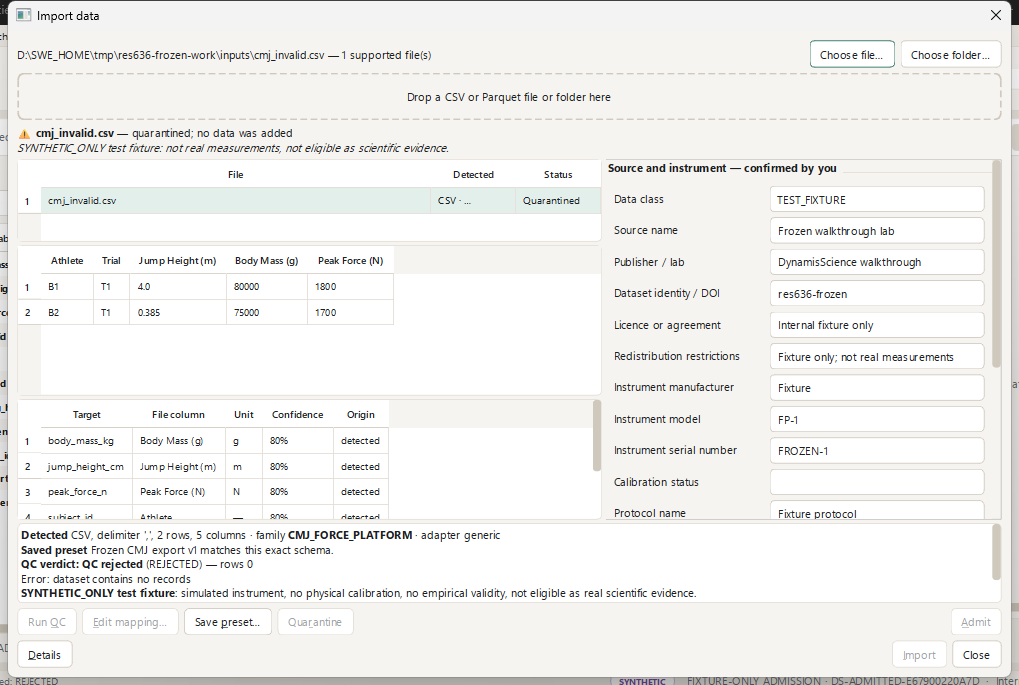
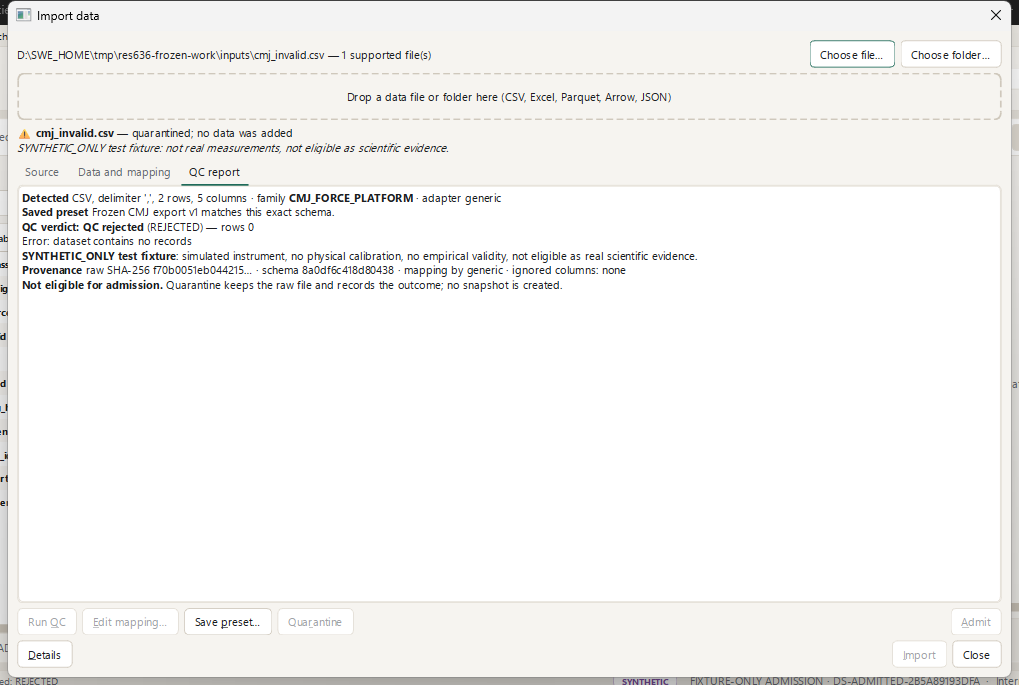
RES-636: qualification record for formats, saved queries, Compare, cleaned screens; frozen evidence

diff --git a/services/science/scripts/res636_frozen_prep.py b/services/science/scripts/res636_frozen_prep.py
@@ -19,7 +19,7 @@ from dynamis_science import importer  # noqa: E402
 
 (work / "inputs").mkdir(parents=True, exist_ok=True)
 HEADER = "Athlete,Trial,Jump Height (m),Body Mass (g),Peak Force (N)\n"
-(work / "inputs" / "cmj_valid.csv").write_text(HEADER + "A1,T1,0.401,80000,1800\nA2,T2,0.385,75000,1700\nA3,T3,0.372,82000,1900\n", encoding="utf-8")
+(work / "inputs" / "cmj_valid.csv").write_text(HEADER + "A1,TR-1,0.401,80000,1189\nA2,T2,0.385,75000,1700\nA3,T3,0.372,82000,1900\n", encoding="utf-8")
 (work / "inputs" / "cmj_invalid.csv").write_text(HEADER + "B1,T1,4.0,80000,1800\nB2,T1,0.385,75000,1700\n", encoding="utf-8")
 rows = "\n".join(f"{s},{t},{i / 1000:.3f},{700 + (i * 7) % 90 + (400 if 300 < i < 500 else 0)}"
                 for s, t in (("A1", "TR-1"), ("A2", "TR-2")) for i in range(1000))

diff --git a/docs/desktop/res636-qualification.md b/docs/desktop/res636-qualification.md
@@ -1,6 +1,6 @@
 # RES-636 qualification — vendor-neutral scientific data workspace and one-click import
 
-Engineering record, not product acceptance (RES-613 remains the owner gate). Scope is vendor-agnostic: no vendor-specific adapters. Source commit of the packaged application: `9d0f1a2899eba28ad80e8ad1701419a19dd7c0b0` (branch `codex/res-621-research-workflow`, local, unpushed).
+Engineering record, not product acceptance (RES-613 remains the owner gate). Scope is vendor-agnostic: no vendor-specific adapters. Source commit of the packaged application: `8d7f2589596b8c05b88e88178af881337c054e5e` (branch `codex/res-621-research-workflow`, local, unpushed).
 
 ## What exists (VERIFIED unless marked)
 
@@ -9,7 +9,7 @@ Engineering record, not product acceptance (RES-613 remains the owner gate). Sco
 - Sample-level (`RAW_FORCE_TIME`, `dynamis_science/traces.py`): Subject → Session → Trial → Trace → sample (`time_s`, optional `sample_index`) → channel (`force_z_n`, `force_left_n`, `force_right_n`, `force_combined_n`, newtons). Tables `force_signals` (samples) and `trace_index` (one row per trace: sample count, time origin, duration, declared and implied sampling rate and its source, channels, instrument, protocol). A trial id repeats across samples; the unique key is subject/session/trial/time. A trial id shared by two subjects or sessions is rejected, never merged.
 - Raw versus derived: no derived metric is computed by import; vendor-computed and locally derived values are not mixed (no vendor adapter exists).
 
-**Import (`importer.py`, `desktop/import_review.py`).** Formats: CSV (UTF-8/BOM; comma, semicolon, tab, pipe), Parquet; single files and bounded non-recursive folders (≤100 files, symlinks skipped). Pipeline: detect → propose mapping with confidence and ambiguity → deterministic unit conversion → per-row QC → existing admission QC → immutable snapshot (batch). Units: kg/g/lb, cm/m/mm/in, s/ms, N/kN/lbf, Hz, N·s/kg, W/kg; an unstated or unsupported unit is a question, never a guess.
+**Import (`importer.py`, `desktop/import_review.py`).** Formats: CSV/TSV/TXT (UTF-8/BOM; comma, semicolon, tab, pipe), Parquet, Arrow/Feather, Excel (.xlsx/.xlsm: cached values of the first sheet with data, other sheets disclosed; converted once to a Parquet cache under the data root), JSON (array of records) and NDJSON. Google Sheets has no connector (no cloud): download as .xlsx or .csv and import the file; single files and bounded non-recursive folders (≤100 files, symlinks skipped). Pipeline: detect → propose mapping with confidence and ambiguity → deterministic unit conversion → per-row QC → existing admission QC → immutable snapshot (batch). Units: kg/g/lb, cm/m/mm/in, s/ms, N/kN/lbf, Hz, N·s/kg, W/kg; an unstated or unsupported unit is a question, never a guess.
 - **Per-row QC flags:** rows with a missing identifier, a duplicated trial id or an implausible value are quarantined individually with a reason (`quarantine/<receipt>/rows.parquet`); clean rows continue to the unchanged admission QC. Sample-level files are judged per file (see limits).
 - **Source profile and presets:** after the first admission the mapping and source/instrument/protocol context are remembered (identity values such as session/subject/trial are not). The same schema is then one click; any header or type change is drift and is reviewed. A file with no session column is one session named after the file, stated in the summary.
 - **Logical dataset per source profile:** the union of that source's immutable batches (each row tagged `batch_id`), shown in the Data workspace; a new file adds a batch, earlier batches are never touched; analysis binds to one batch.
@@ -17,13 +17,13 @@ Engineering record, not product acceptance (RES-613 remains the owner gate). Sco
 
 **Streaming and limits.** Probe reads the first 64 KiB plus a streaming row count; sample-level normalization is `scan → sink_parquet`; QC iterates Parquet batches of 500,000 rows holding O(traces) state; snapshot is a streamed copy. Limits: 4 GiB file, 100,000,000 samples per recording (explicit rejections); trial-level tables are read whole and capped at 256 MiB.
 
-**Data workspace (`desktop/data_workspace.py`, Research → Data workspace, Ctrl+D).** Catalogue of logical datasets, batches and existing datasets with search; paged (200 rows) table with sorting, column chooser and filters (contains, comparisons, empty); column profile (type, unit from canonical name, missingness, range); Traces tab using the existing signals view (first recording plotted); read-only SQL (Polars SQL; only SELECT; writes, files, paths, comments and multiple statements are refused; 10,000-row cap); Quality and lineage (rights, QC verdict, exclusions, instrument, import receipt with raw SHA-256, content hashes, parser version, studies); "Analyze this dataset" opens the selected batch in the research workbench.
+**Data workspace (`desktop/data_workspace.py`, Research → Data workspace, Ctrl+D).** Catalogue of logical datasets, batches and existing datasets with search; paged (200 rows) table with sorting, column chooser and filters (contains, comparisons, empty); column profile (type, unit from canonical name, missingness, range); Traces tab using the existing signals view (first recording plotted); read-only SQL (Polars SQL; only SELECT; writes, files, paths, comments and multiple statements are refused; 10,000-row cap); Quality and lineage (rights, QC verdict, exclusions, instrument, import receipt with raw SHA-256, content hashes, parser version, studies); "Analyze this dataset" opens the selected batch in the research workbench. **Saved queries:** a SELECT can be saved by name (same gate as running; same name adds a version, earlier ones kept) and reused from a picker; stored in `artifacts/saved_queries.json`. **Compare tab:** for a raw force-time recording, values derived now from the raw samples (peak, mean, trapezoidal impulse, duration; method DS-DERIVE-1.0; not stored, not a vendor value) are shown beside recorded values read from trial-level tables of the same source with the same subject and trial id, with the origin of each. **Screen layout:** single-line catalogue with batches indented, tabs Data / Columns / Traces / Compare / Query / Provenance, filters shown only when set; the import details are three tabs (Source with the essentials first and "More" for the rest, Data and mapping, QC report), the rights review appears only for non-fixture data, and the QC result is re-run if the source form changes after QC.
 
 ## Evidence
 
-- Source regression at `9d0f1a2`: **256 passed in 215.75 s** (offscreen; Mendeley/MoveSmart/GUI fixtures read a checksum-identical disposable copy via `DYNAMISSCIENCE_TEST_SOURCE_ROOT`; 1929 files, content hashes identical to the original). Includes the qualified MixedLM/ICC reference tests; no estimator, optimizer or qualification criterion was changed. Earlier suite runs without the variable read the operational root; they changed only `research/research.db-shm` (SQLite shared-memory index, mtime 10:30) between two recorded fingerprints.
+- Source regression at `8d7f258`: **268 passed in 233 s** (offscreen; Mendeley/MoveSmart/GUI fixtures read a checksum-identical disposable copy via `DYNAMISSCIENCE_TEST_SOURCE_ROOT`; 1929 files, content hashes identical to the original). Includes the qualified MixedLM/ICC reference tests; no estimator, optimizer or qualification criterion was changed. Earlier suite runs without the variable read the operational root; they changed only `research/research.db-shm` (SQLite shared-memory index, mtime 10:30) between two recorded fingerprints.
 - Real Windows Qt walkthrough, source application, disposable root (`scripts/res636_final_walkthrough.py`, driven through Qt calls): `docs/desktop/res636-evidence/final/` (100%, 1366×720 usable) and `final-150/` (QT_SCALE_FACTOR=1.5, 911×480 logical, the 1366×768 at 150% case): first import asks once; second file one click; mixed file partial import; invalid file blocked; Parquet; folder; trace; workspace table/filter/columns/query/inspector/traces/samples; analysis selection; restart with the datasets, presets and receipts persisted.
[3 lines of base64/hex data omitted]
 
 ## Not verified / limits
@@ -33,6 +33,6 @@ Engineering record, not product acceptance (RES-613 remains the owner gate). Sco
 - Sample-level QC is per file (a file with any rejected trace is not admitted); per-row flags apply to trial-level tables only. Duplicate sample times are rejected, not repaired.
 - Trace snapshots are browsed, queried and plotted; scalar analyses cannot run on them (no derived metrics are computed); the qualified methods bind to `signal_trials`/`cmj_*` tables and are untouched.
 - A logical dataset is browse/query/inspect only; analysis opens one batch. Combining batches into one analysis snapshot is not built.
-- Trial identifiers must be unique per file (export numbering per athlete needs a composite id). Excel, JSON, Arrow and C3D are not supported. Read-only SQL is a keyword filter over Polars SQL, not a sandbox proof. Query/page calls have row caps but no wall-clock timeout.
+- Trial identifiers must be unique per file (export numbering per athlete needs a composite id). C3D and other binary formats are not supported; Excel reads cached values only (no formulas, one sheet). Read-only SQL is a keyword filter over Polars SQL, not a sandbox proof. Query/page calls have row caps but no wall-clock timeout.
 - Cancel is not offered during import. Windows only.
 - Earlier packaged-app screenshots (`frozen-01/02`) showed a user desktop and were removed from the tree; they remain in commit `b023d41` history (not rewritten).
